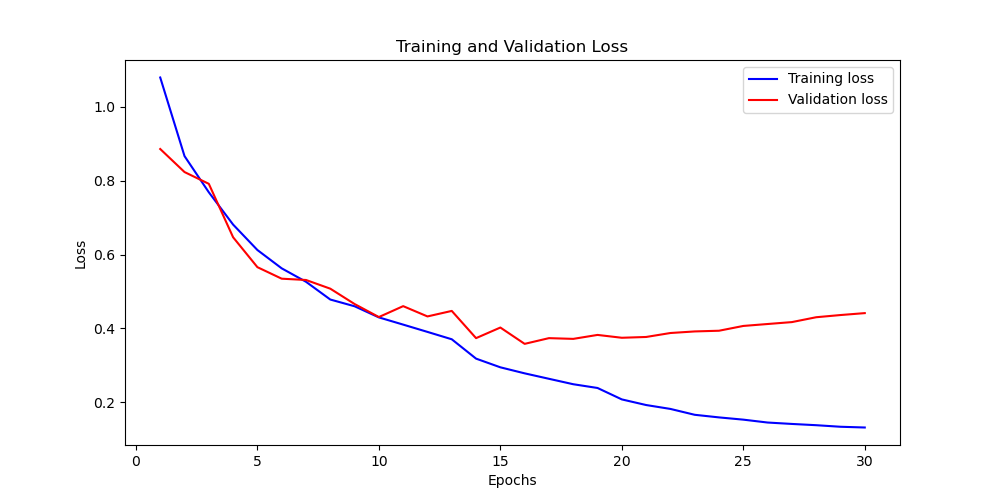
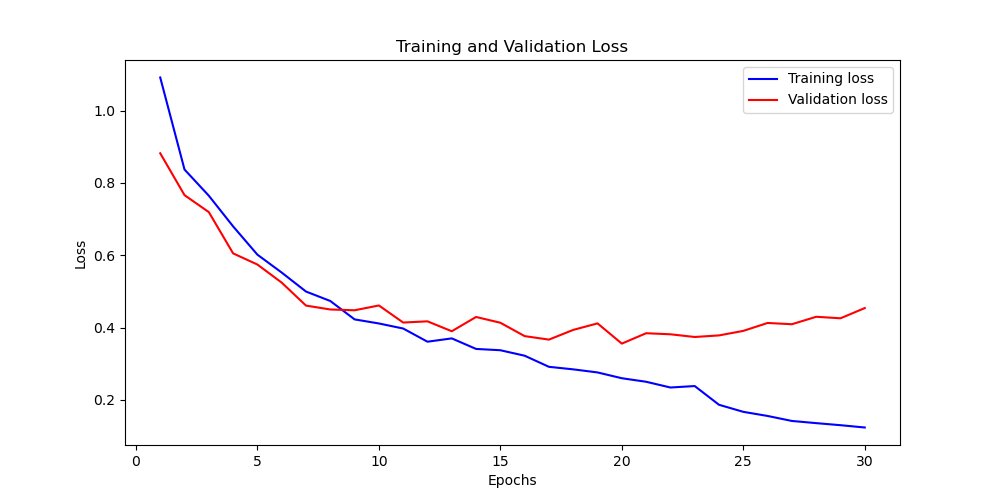
[add] acc plot

diff --git a/lab3/src/train.py b/lab3/src/train.py
@@ -8,7 +8,7 @@ from torchvision import transforms
 from models.unet import UNet
 from models.resnet34_unet import Res34_UNet
 from oxford_pet import SimpleOxfordPetDataset
-from utils import dice_score, train_loss
+from utils import dice_score, train_loss, plot_accuracy
 from PIL import Image
 
 def train(args):
@@ -43,7 +43,7 @@ def train(args):
     # Initialize model, loss function, and optimizer
     if args.model_type == 'unet':
         model = UNet(in_channels=3, out_channels=1).to(device)
-        save_path = '../saved_models/unet_3_best_model.pth'
+        save_path = '../saved_models/unet_best_model.pth'
     else:
         model = Res34_UNet(in_channels=3, out_channels=1).to(device)
         save_path = '../saved_models/res34_best_model.pth'
@@ -65,11 +65,14 @@ def train(args):
     best_val_loss = float('inf')
     train_losses = []
     val_losses = []
+    train_accuracies = []
+    val_accuracies = []
     
     # Training loop
     for epoch in range(args.epochs):
         model.train()
         train_loss_epoch = 0.0
+        train_dice_epoch = 0.0
         for batch in train_loader:
             images = batch['image'].float().to(device)
             masks = batch['mask'].float().to(device)
@@ -81,14 +84,17 @@ def train(args):
             optimizer.step()
             
             train_loss_epoch += loss.item() * images.size(0)
+            train_dice_epoch += dice_score(outputs, masks).item() * images.size(0)
         
         train_loss_epoch /= len(train_loader.dataset)
+        train_dice_epoch /= len(train_loader.dataset)
         train_losses.append(train_loss_epoch)
+        train_accuracies.append(train_dice_epoch)
         
         # Validation loop
         model.eval()
         val_loss_epoch = 0.0
-        val_dice = 0.0
+        val_dice_epoch = 0.0
         with torch.no_grad():
             for batch in val_loader:
                 images = batch['image'].float().to(device)
@@ -97,16 +103,16 @@ def train(args):
                 outputs = model(images)
                 loss = combined_loss(outputs, masks)
                 val_loss_epoch += loss.item() * images.size(0)
-                
-                val_dice += dice_score(outputs, masks).item() * images.size(0)
+                val_dice_epoch += dice_score(outputs, masks).item() * images.size(0)
         
         val_loss_epoch /= len(val_loader.dataset)
-        val_dice /= len(val_loader.dataset)
+        val_dice_epoch /= len(val_loader.dataset)
         val_losses.append(val_loss_epoch)
+        val_accuracies.append(val_dice_epoch)
         
         # Print epoch information including learning rate
         current_lr = optimizer.param_groups[0]['lr']
-        print(f'Epoch {epoch+1}/{args.epochs}, Train Loss: {train_loss_epoch:.4f}, Val Loss: {val_loss_epoch:.4f}, Val Dice: {val_dice:.4f}, Learning Rate: {current_lr:.6f}')
+        print(f'Epoch {epoch+1}/{args.epochs}, Train Loss: {train_loss_epoch:.4f}, Val Loss: {val_loss_epoch:.4f}, Train Dice: {train_dice_epoch:.4f}, Val Dice: {val_dice_epoch:.4f}, Learning Rate: {current_lr:.6f}')
         
         scheduler.step(val_loss_epoch)
         
@@ -117,14 +123,17 @@ def train(args):
             print(f'Saved best model with val loss: {val_loss_epoch:.4f}')
     
     # Plot and save the loss graph
-    train_loss(train_losses, val_losses, save_path='unet_loss_plot.png')
+    train_loss(train_losses, val_losses, save_path='res34_loss_plot.png')
+    
+    # Plot and save the accuracy graph
+    plot_accuracy(train_accuracies, val_accuracies, save_path='res34_accuracy_plot.png')
 
 def get_args():
     parser = argparse.ArgumentParser(description='Train the model on images and target masks')
     parser.add_argument('--data_path', type=str, help='path of the input data')
     parser.add_argument('--epochs', '-e', type=int, default=30, help='number of epochs')
     parser.add_argument('--batch_size', '-b', type=int, default=16, help='batch size')
-    parser.add_argument('--learning-rate', '-lr', type=float, default=7e-4, help='learning rate')
+    parser.add_argument('--learning-rate', '-lr', type=float, default=5e-4, help='learning rate')
     parser.add_argument('--model_type', type=str, default='unet', help='unet or res34')
     
     return parser.parse_args()

diff --git a/lab3/src/utils.py b/lab3/src/utils.py
@@ -87,3 +87,23 @@ def train_loss(train_losses, val_losses, save_path='loss_plot.png'):
     save_path (str): Path to save the plot
     """
     plot_loss(train_losses, val_losses, save_path)
+
+def plot_accuracy(train_accuracies, val_accuracies, save_path='accuracy_plot.png'):
+    """
+    Plot the training and validation accuracy (Dice Score).
+
+    Args:
+    train_accuracies (list of float): Training accuracies
+    val_accuracies (list of float): Validation accuracies
+    save_path (str): Path to save the plot
+    """
+    epochs = range(1, len(train_accuracies) + 1)
+    plt.figure(figsize=(10, 5))
+    plt.plot(epochs, train_accuracies, 'b', label='Training Dice Score')
+    plt.plot(epochs, val_accuracies, 'r', label='Validation Dice Score')
+    plt.title('Training and Validation Dice Score')
+    plt.xlabel('Epochs')
+    plt.ylabel('Dice Score')
+    plt.legend()
+    plt.savefig(save_path)
+    plt.close()
